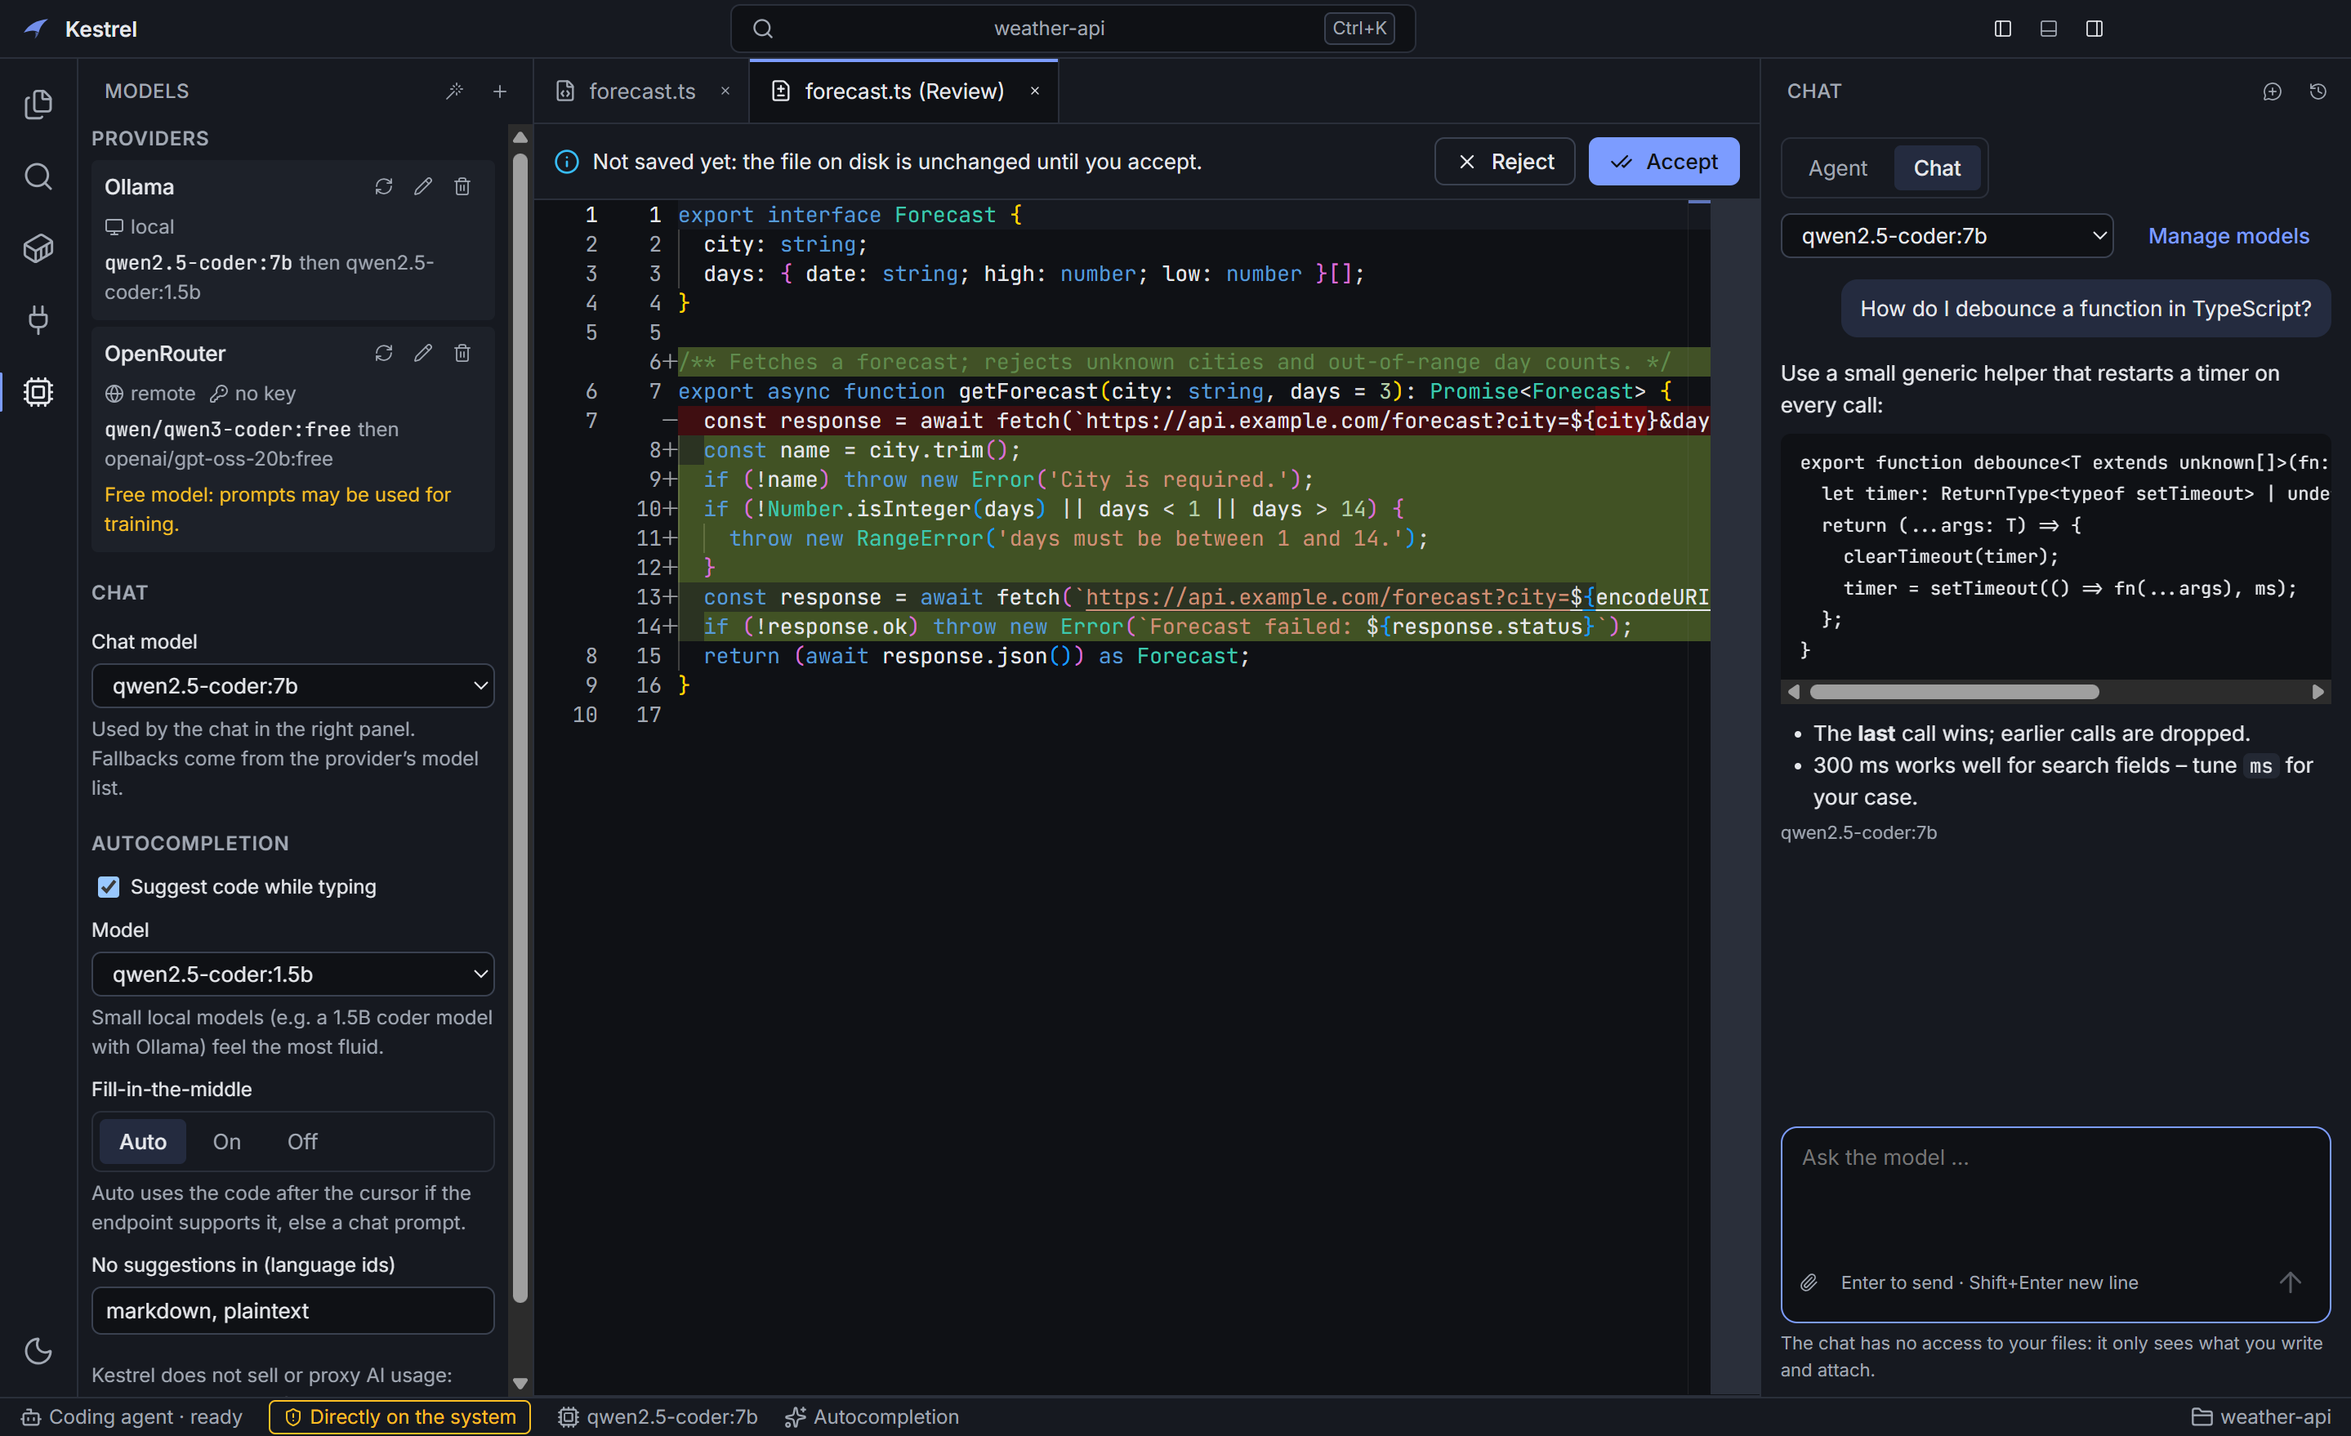
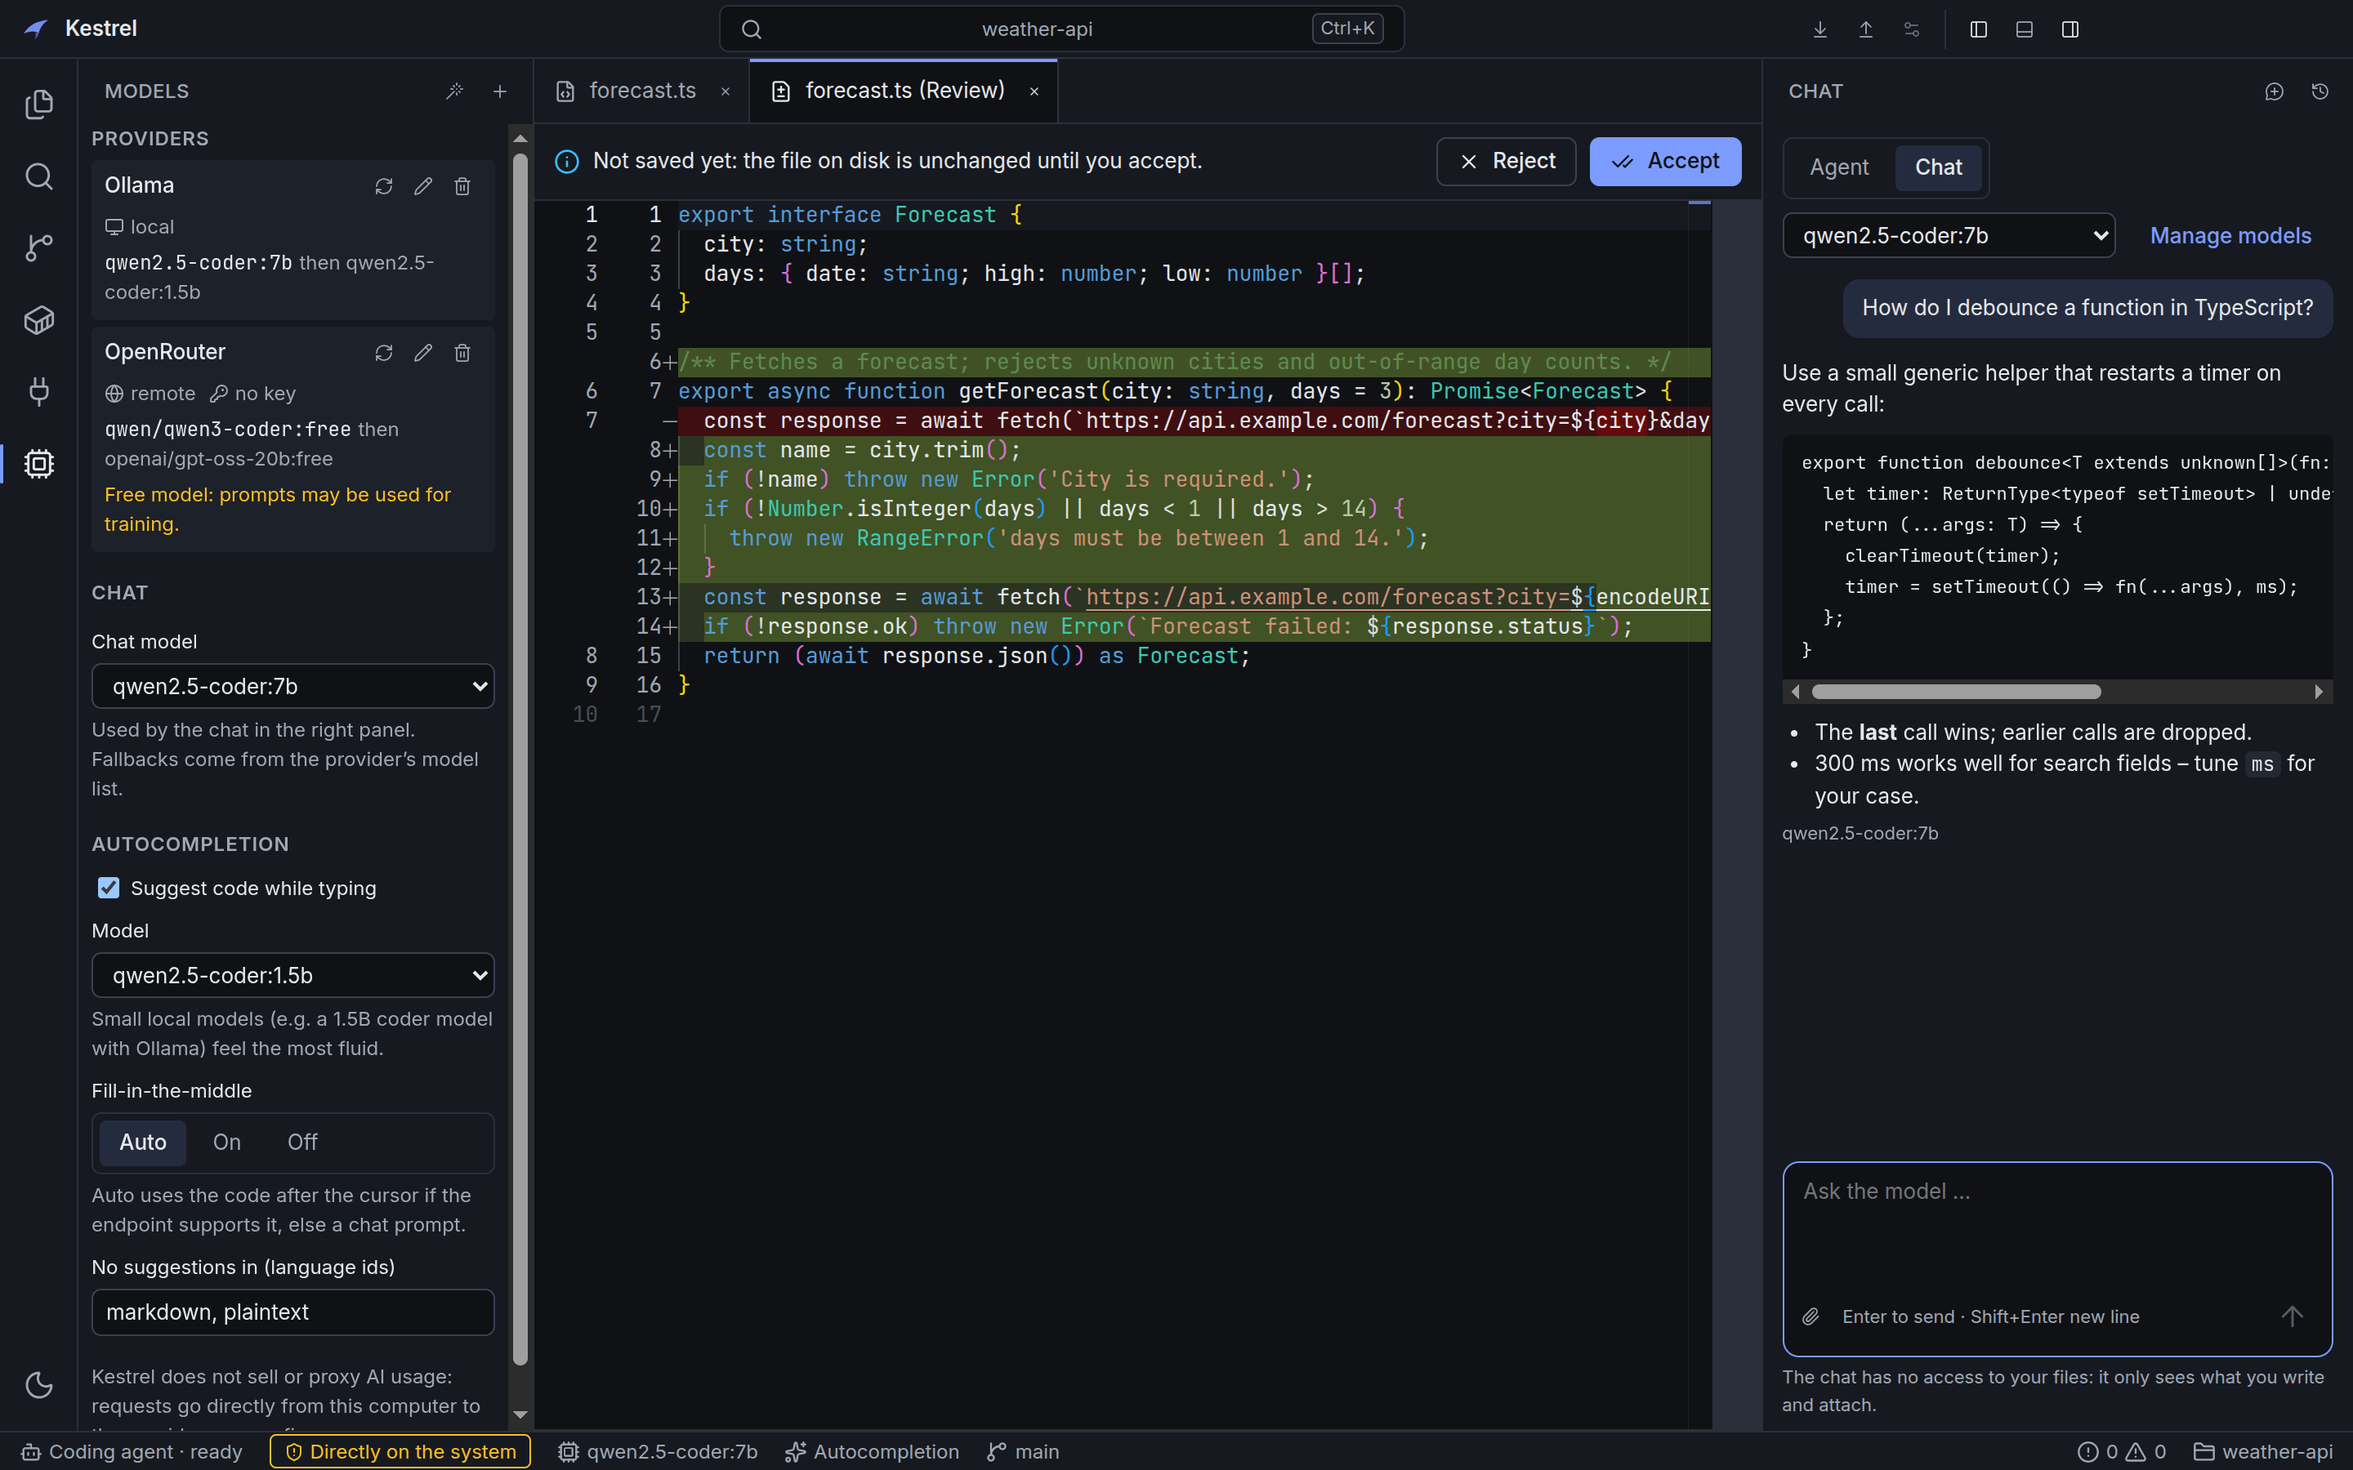
docs: new screenshots of the Git panel and the AI layout assistant
The screenshot spec now renders sharp 2880x1800 images through CDP
device emulation, which also works on virtual displays (xvfb), and adds
the Git panel and "Customize layout with AI". README and website show
them; the AI preview uses lowercase side words.

diff --git a/apps/desktop/e2e/screenshots.spec.ts b/apps/desktop/e2e/screenshots.spec.ts
@@ -1,9 +1,11 @@
-import { mkdirSync, writeFileSync } from 'node:fs';
+import { execFileSync } from 'node:child_process';
+import { mkdirSync, realpathSync, writeFileSync } from 'node:fs';
 import { createServer } from 'node:http';
+import type { IncomingMessage, ServerResponse } from 'node:http';
 import type { AddressInfo } from 'node:net';
 import { join } from 'node:path';
 import { expect, test } from '@playwright/test';
-import type { ElectronApplication, Page } from '@playwright/test';
+import type { CDPSession, ElectronApplication, Page } from '@playwright/test';
 import { stubMessageBox } from './agent-helpers';
 import { createUserDataDir, launchApp } from './launch';
 import { createProject, stubOpenDialog } from './workspace-helpers';
@@ -57,10 +59,37 @@ export function debounce<T extends unknown[]>(fn: (...args: T) => void, ms = 300
 - The **last** call wins; earlier calls are dropped.
 - 300 ms works well for search fields – tune \`ms\` for your case.`;
 
+/** What "Customize layout with AI" answers for the demo (agent cockpit). */
+const LAYOUT_ANSWER = JSON.stringify({
+  workbench: {
+    sidebarSide: 'right',
+    agentSide: 'left',
+    panels: { bottom: false },
+    statusBar: { hidden: ['cursor', 'completion'] },
+  },
+  toolbar: ['agent.start', 'git.pull', 'git.push'],
+  sidebarView: 'git',
+  explanation:
+    'Agent panel on the left as the main area, Git on the right, terminal closed, and quick buttons for starting the agent, Pull and Push.',
+});
+
+function readBody(request: IncomingMessage): Promise<string> {
+  return new Promise((resolve) => {
+    let body = '';
+    request.on('data', (chunk: Buffer) => {
+      body += chunk.toString();
+    });
+    request.on('end', () => {
+      resolve(body);
+    });
+  });
+}
+
 /** OpenAI-compatible chat/completions plus the bits of Ollama's API the assistant reads. */
 async function startDemoModels(): Promise<{ url: string; close: () => void }> {
-  const server = createServer((request, response) => {
+  async function handle(request: IncomingMessage, response: ServerResponse): Promise<void> {
     const path = new URL(request.url ?? '/', 'http://localhost').pathname;
+    const body = await readBody(request);
     const json = (body: unknown) => {
       response.writeHead(200, { 'content-type': 'application/json' });
       response.end(JSON.stringify(body));
@@ -76,6 +105,20 @@ async function startDemoModels(): Promise<{ url: string; close: () => void }> {
         created: 0,
         model: 'qwen2.5-coder:1.5b',
         choices: [{ index: 0, text: 'return (celsius * 9) / 5 + 32;', finish_reason: 'stop' }],
+      });
+    } else if (path === '/v1/chat/completions' && !body.includes('"stream":true')) {
+      json({
+        id: 'x',
+        object: 'chat.completion',
+        created: 0,
+        model: 'qwen2.5-coder:7b',
+        choices: [
+          {
+            index: 0,
+            message: { role: 'assistant', content: LAYOUT_ANSWER },
+            finish_reason: 'stop',
+          },
+        ],
       });
     } else if (path === '/v1/chat/completions') {
       response.writeHead(200, { 'content-type': 'text/event-stream' });
@@ -94,6 +137,9 @@ async function startDemoModels(): Promise<{ url: string; close: () => void }> {
       response.writeHead(404);
       response.end();
     }
+  }
+  const server = createServer((request, response) => {
+    void handle(request, response);
   });
   await new Promise<void>((resolve) => {
     server.listen(0, '127.0.0.1', resolve);
@@ -112,7 +158,13 @@ let app: ElectronApplication;
 let page: Page;
 let models: Awaited<ReturnType<typeof startDemoModels>>;
 
-const shot = (name: string) => page.screenshot({ path: join(OUT, `${name}.png`) });
+let cdp: CDPSession;
+
+/** Captured through CDP, which keeps the emulated 2x pixel density. */
+async function shot(name: string): Promise<void> {
+  const { data } = await cdp.send('Page.captureScreenshot', { format: 'png' });
+  writeFileSync(join(OUT, `${name}.png`), Buffer.from(data, 'base64'));
+}
 const tree = () => page.getByRole('tree', { name: 'Files' });
 
 test.beforeAll(async () => {
@@ -169,24 +221,47 @@ test.beforeAll(async () => {
     }),
   );
   // A readable project name in the title bar and the file tree.
-  const root = join(
-    createProject({
-      'weather-api/src/forecast.ts': FORECAST,
-      'weather-api/src/server.ts': SERVER,
-      'weather-api/src/forecast.test.ts': "import { test } from 'node:test';\n",
-      'weather-api/README.md': '# weather-api\n',
-      'weather-api/package.json': '{ "name": "weather-api", "private": true }\n',
-      'weather-api/tsconfig.json': '{ "compilerOptions": { "strict": true } }\n',
-      'weather-api/.env': 'WEATHER_API_KEY=secret\n',
-    }),
-    'weather-api',
+  const root = realpathSync(
+    join(
+      createProject({
+        'weather-api/src/forecast.ts': FORECAST,
+        'weather-api/src/server.ts': SERVER,
+        'weather-api/src/forecast.test.ts': "import { test } from 'node:test';\n",
+        'weather-api/README.md': '# weather-api\n',
+        'weather-api/package.json': '{ "name": "weather-api", "private": true }\n',
+        'weather-api/tsconfig.json': '{ "compilerOptions": { "strict": true } }\n',
+        'weather-api/.env': 'WEATHER_API_KEY=secret\n',
+      }),
+      'weather-api',
+    ),
   );
+  // A trusted Git repository, so the Git panel has something to show.
+  const git = (...args: string[]) =>
+    execFileSync('git', args, {
+      cwd: root,
+      env: {
+        ...process.env,
+        GIT_AUTHOR_NAME: 'Demo',
+        GIT_AUTHOR_EMAIL: 'demo@example.com',
+        GIT_COMMITTER_NAME: 'Demo',
+        GIT_COMMITTER_EMAIL: 'demo@example.com',
+      },
+    });
+  writeFileSync(join(root, '.gitignore'), '.env\n');
+  git('init', '-q', '-b', 'main');
+  git('add', '.');
+  git('commit', '-qm', 'Initial weather API');
+  writeFileSync(join(userDataDir, 'trust.json'), JSON.stringify({ trusted: [root] }));
   app = await launchApp(userDataDir, { KESTREL_OLLAMA_URL: models.url });
   page = await app.firstWindow();
-  await app.evaluate(({ BrowserWindow }) => {
-    const window = BrowserWindow.getAllWindows()[0];
-    window?.setContentSize(1440, 900);
-    window?.center();
+  // A fixed, sharp (2x) picture size via device emulation: resizing the
+  // native window is unreliable on virtual displays (xvfb).
+  cdp = await page.context().newCDPSession(page);
+  await cdp.send('Emulation.setDeviceMetricsOverride', {
+    width: 1440,
+    height: 900,
+    deviceScaleFactor: 2,
+    mobile: false,
   });
   await stubOpenDialog(app, root);
   await stubMessageBox(app, 1);
@@ -266,4 +341,32 @@ test('setup assistant with hardware detection', async () => {
   await page.waitForTimeout(300);
   await shot('setup');
   await wizard.getByRole('button', { name: 'Skip assistant' }).click();
+});
+
+test('git panel with changes and a commit message', async () => {
+  await page.keyboard.press('Control+Shift+G');
+  const changes = page.getByRole('region', { name: 'Changes', exact: true });
+  await expect(changes.getByRole('button', { name: 'Stage server.ts' })).toBeVisible();
+  await changes.getByRole('button', { name: 'Stage server.ts' }).click();
+  await page
+    .getByRole('textbox', { name: 'Commit message' })
+    .fill('Add a Fahrenheit helper to the server');
+  await page.mouse.move(0, 0);
+  await page.waitForTimeout(500);
+  await shot('git');
+});
+
+test('layout proposed by the chat model', async () => {
+  await page.keyboard.press('Control+Shift+P');
+  await page.keyboard.type('layout with AI');
+  await page.keyboard.press('Enter');
+  const dialog = page.getByRole('dialog', { name: 'Customize layout with AI' });
+  await dialog.getByRole('button', { name: 'Agent cockpit' }).click();
+  await dialog.getByRole('button', { name: 'Propose layout' }).click();
+  await expect(dialog.getByRole('region', { name: 'Proposed changes' })).toBeVisible();
+  await page.mouse.move(0, 0);
+  await page.waitForTimeout(500);
+  await shot('layout-ai');
+  await dialog.getByRole('button', { name: 'Discard' }).click();
+  await dialog.getByRole('button', { name: 'Close', exact: true }).click();
 });

diff --git a/site/index.html b/site/index.html
@@ -66,8 +66,8 @@
             class="shot"
             src="images/agent.png"
             alt="Kestrel with a coding agent: plan, tool calls, a change held for review and a permission request"
-            width="2878"
-            height="1758"
+            width="2880"
+            height="1800"
           />
         </div>
       </section>
@@ -200,8 +200,8 @@
               src="images/review.png"
               alt="Reviewing an agent change section by section"
               loading="lazy"
-              width="2878"
-              height="1758"
+              width="2880"
+              height="1800"
             />
             <figcaption>Review agent changes before they reach the disk.</figcaption>
           </figure>
@@ -210,8 +210,8 @@
               src="images/setup.png"
               alt="Setup assistant with hardware detection"
               loading="lazy"
-              width="2878"
-              height="1758"
+              width="2880"
+              height="1800"
             />
             <figcaption>Setup assistant: hardware check and model recommendations.</figcaption>
           </figure>
@@ -220,8 +220,8 @@
               src="images/chat.png"
               alt="Models view and built-in chat"
               loading="lazy"
-              width="2878"
-              height="1758"
+              width="2880"
+              height="1800"
             />
             <figcaption>Your models, your providers, your keys.</figcaption>
           </figure>
@@ -230,10 +230,30 @@
               src="images/autocomplete.png"
               alt="Ghost-text autocompletion in the editor"
               loading="lazy"
-              width="2878"
-              height="1758"
+              width="2880"
+              height="1800"
             />
             <figcaption>Inline suggestions from a local model.</figcaption>
+          </figure>
+          <figure class="reveal">
+            <img
+              src="images/git.png"
+              alt="Git panel with a staged change and a commit message"
+              loading="lazy"
+              width="2880"
+              height="1800"
+            />
+            <figcaption>Stage, commit, branch, pull and push – right next to your code.</figcaption>
+          </figure>
+          <figure class="reveal">
+            <img
+              src="images/layout-ai.png"
+              alt="Customize layout with AI: a proposal with a preview of the changes"
+              loading="lazy"
+              width="2880"
+              height="1800"
+            />
+            <figcaption>Describe your IDE – your model proposes the layout.</figcaption>
           </figure>
         </div>
       </section>

diff --git a/apps/desktop/e2e/layout-ai.spec.ts b/apps/desktop/e2e/layout-ai.spec.ts
@@ -55,7 +55,7 @@ test('previews the proposal in plain words and changes nothing before applying',
   await wish('sidebar right, no status bar, a terminal button');
   const preview = dialog().getByRole('region', { name: 'Proposed changes' });
   await expect(preview).toContainText('Sidebar on the right, status bar hidden');
-  await expect(preview).toContainText('Sidebar moves to the Right side');
+  await expect(preview).toContainText('Sidebar moves to the right');
   await expect(preview).toContainText('Status bar is hidden');
   await expect(preview).toContainText('Toolbar: + New terminal');
   // Unknown commands from the model are dropped.

diff --git a/apps/desktop/src/renderer/features/layout/LayoutAiDialog.tsx b/apps/desktop/src/renderer/features/layout/LayoutAiDialog.tsx
@@ -30,7 +30,7 @@ function describe(change: LayoutChange, t: TFunction, title: (id: string) => str
     case 'side':
       return t('layout.ai.change.side', {
         panel: t(change.panel === 'sidebar' ? 'layout.sidebar' : 'layout.agentPanel'),
-        side: t(change.side === 'left' ? 'layout.left' : 'layout.right'),
+        side: t(change.side === 'left' ? 'layout.ai.side.left' : 'layout.ai.side.right'),
       });
     case 'panel':
       return t(change.open ? 'layout.ai.change.panelOpen' : 'layout.ai.change.panelClosed', {

diff --git a/CLAUDE.md b/CLAUDE.md
@@ -44,7 +44,7 @@ Programs are looked up with `lib/which.ts` (`findProgram`, PATHEXT-aware).
   `publish` in `electron-builder.yml` (GitHub). Only in the packaged app and
   while `settings.checkForUpdates`; macOS needs a signed build. A private repo
   makes the check fail quietly (logged).
-- README screenshots: run `e2e/screenshots.spec.ts` with
+- README screenshots (2880×1800 via CDP device emulation, also under xvfb): run `e2e/screenshots.spec.ts` with
   `KESTREL_SCREENSHOTS=1` (after `pnpm build`); it uses
   `e2e/fixtures/demo-agent.mjs` and a demo project and writes `docs/images/`.
 - `dependencies` of the desktop app = only what main loads at runtime (the

diff --git a/README.md b/README.md
@@ -109,6 +109,10 @@ AI you already use**.
   <tr>
     <td colspan="2"><img src="docs/images/setup.png" alt="Setup assistant with hardware detection and model recommendation" width="100%" /></td>
   </tr>
+  <tr>
+    <td><img src="docs/images/git.png" alt="Git panel with a staged change and a commit message" width="100%" /></td>
+    <td><img src="docs/images/layout-ai.png" alt="Customize layout with AI: a proposal with a preview of the changes" width="100%" /></td>
+  </tr>
 </table>
 
 ## Bring your own AI
